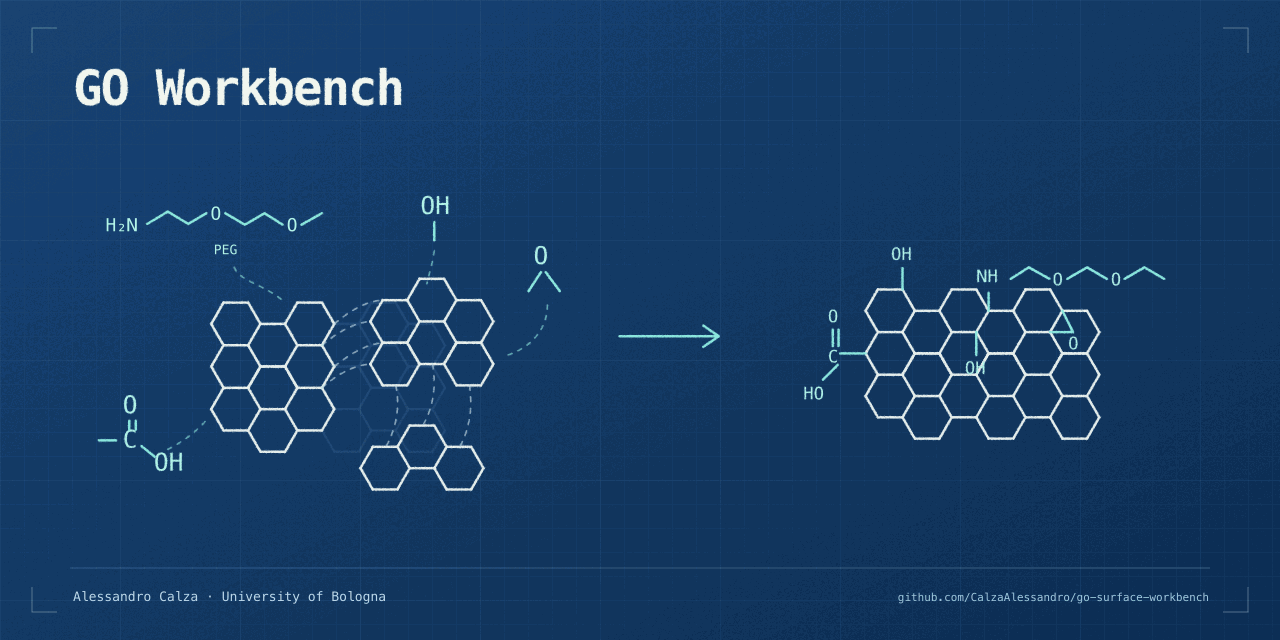
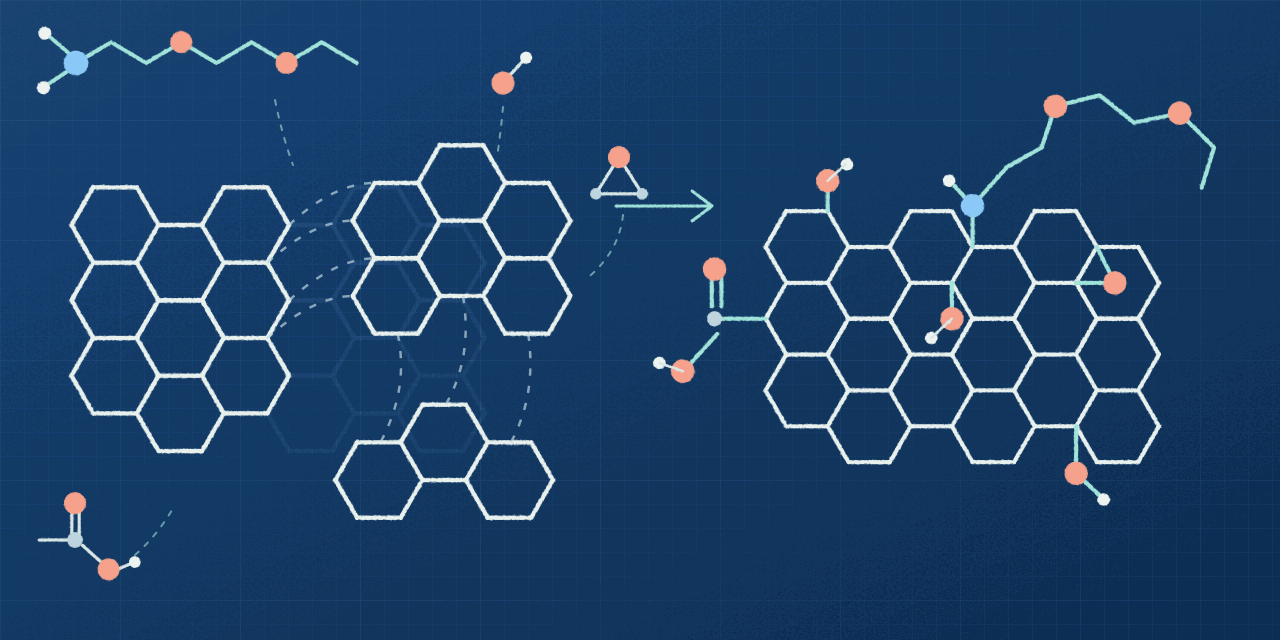
Remove all artwork lettering and draw molecular assembly with coloured atoms

diff --git a/README.md b/README.md
@@ -22,7 +22,7 @@ Generate graphene oxide sheets with explicit connectivity and optional covalent 
 
 <picture>
   <source media="(prefers-color-scheme: dark)" srcset="docs/images/banner_dark.svg">
-  <img src="docs/images/banner.svg" width="100%" alt="A chalk blueprint showing graphene fragments, oxygen groups and a PEG chain assembling into a functionalized GO sheet">
+  <img src="docs/images/banner.svg" width="100%" alt="Graphene fragments and molecular groups assembling into a functionalized GO sheet, drawn in chalk on blue graph paper">
 </picture>
 
 > [!NOTE]
